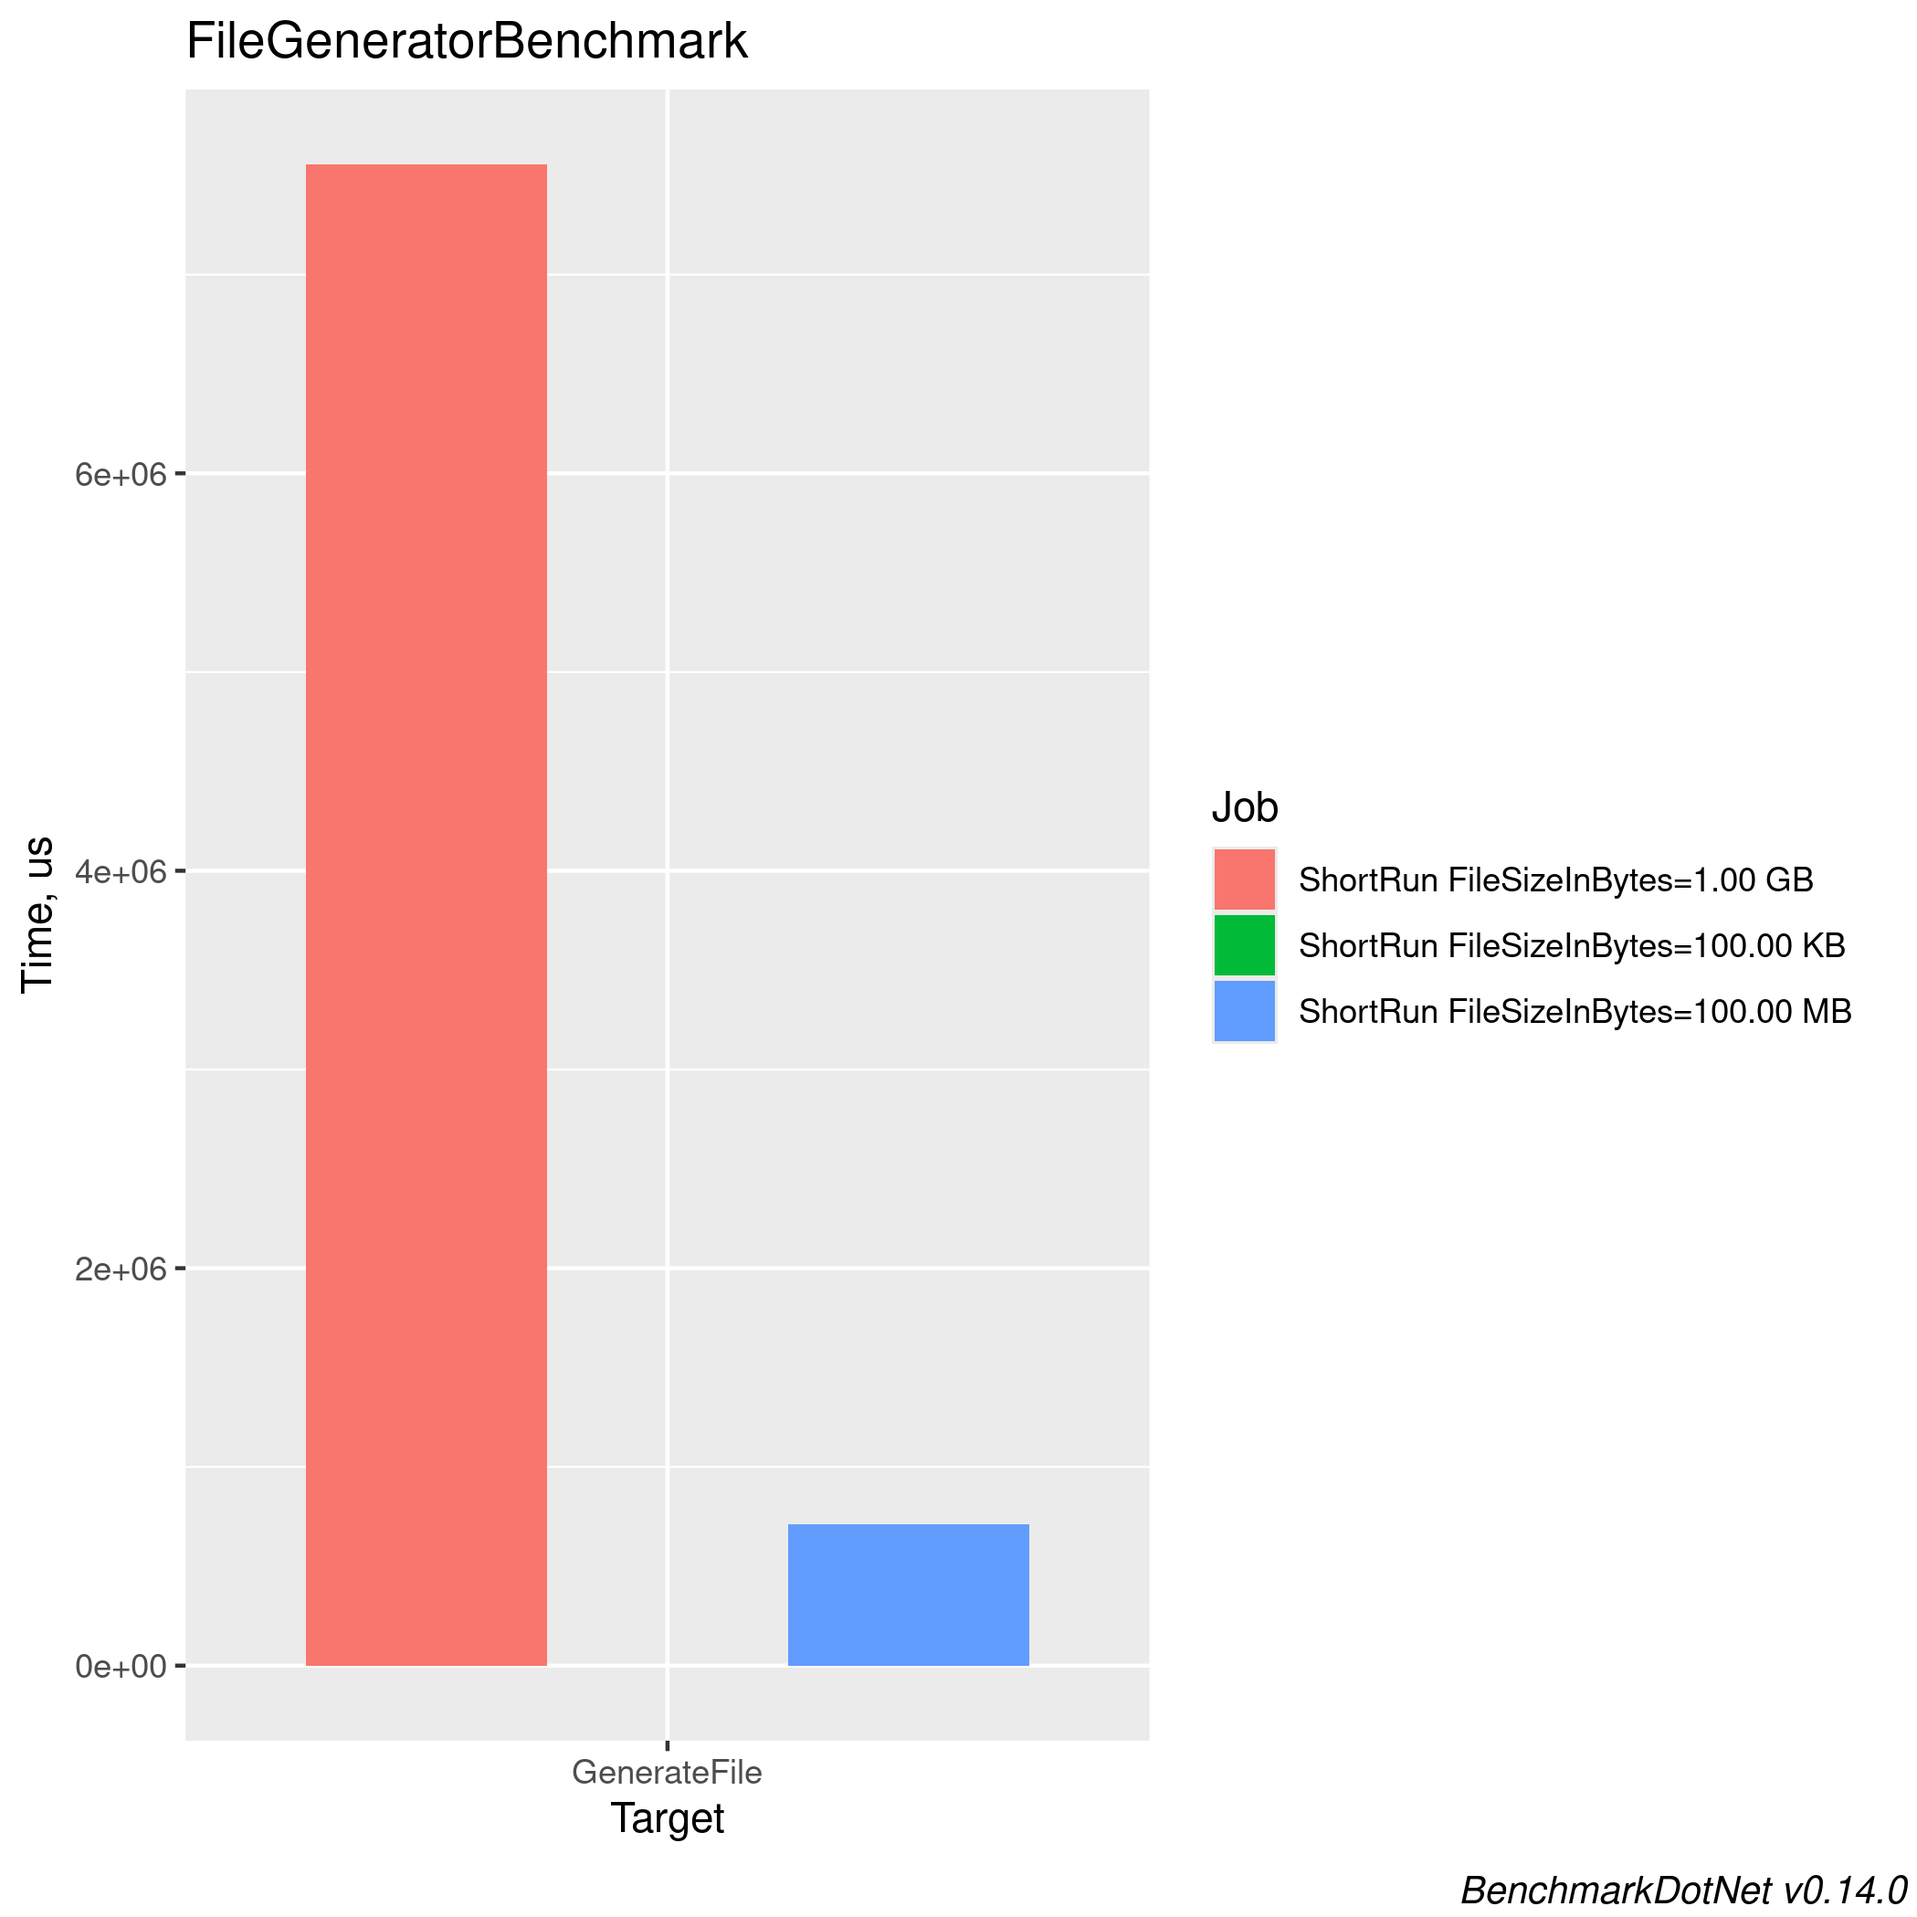
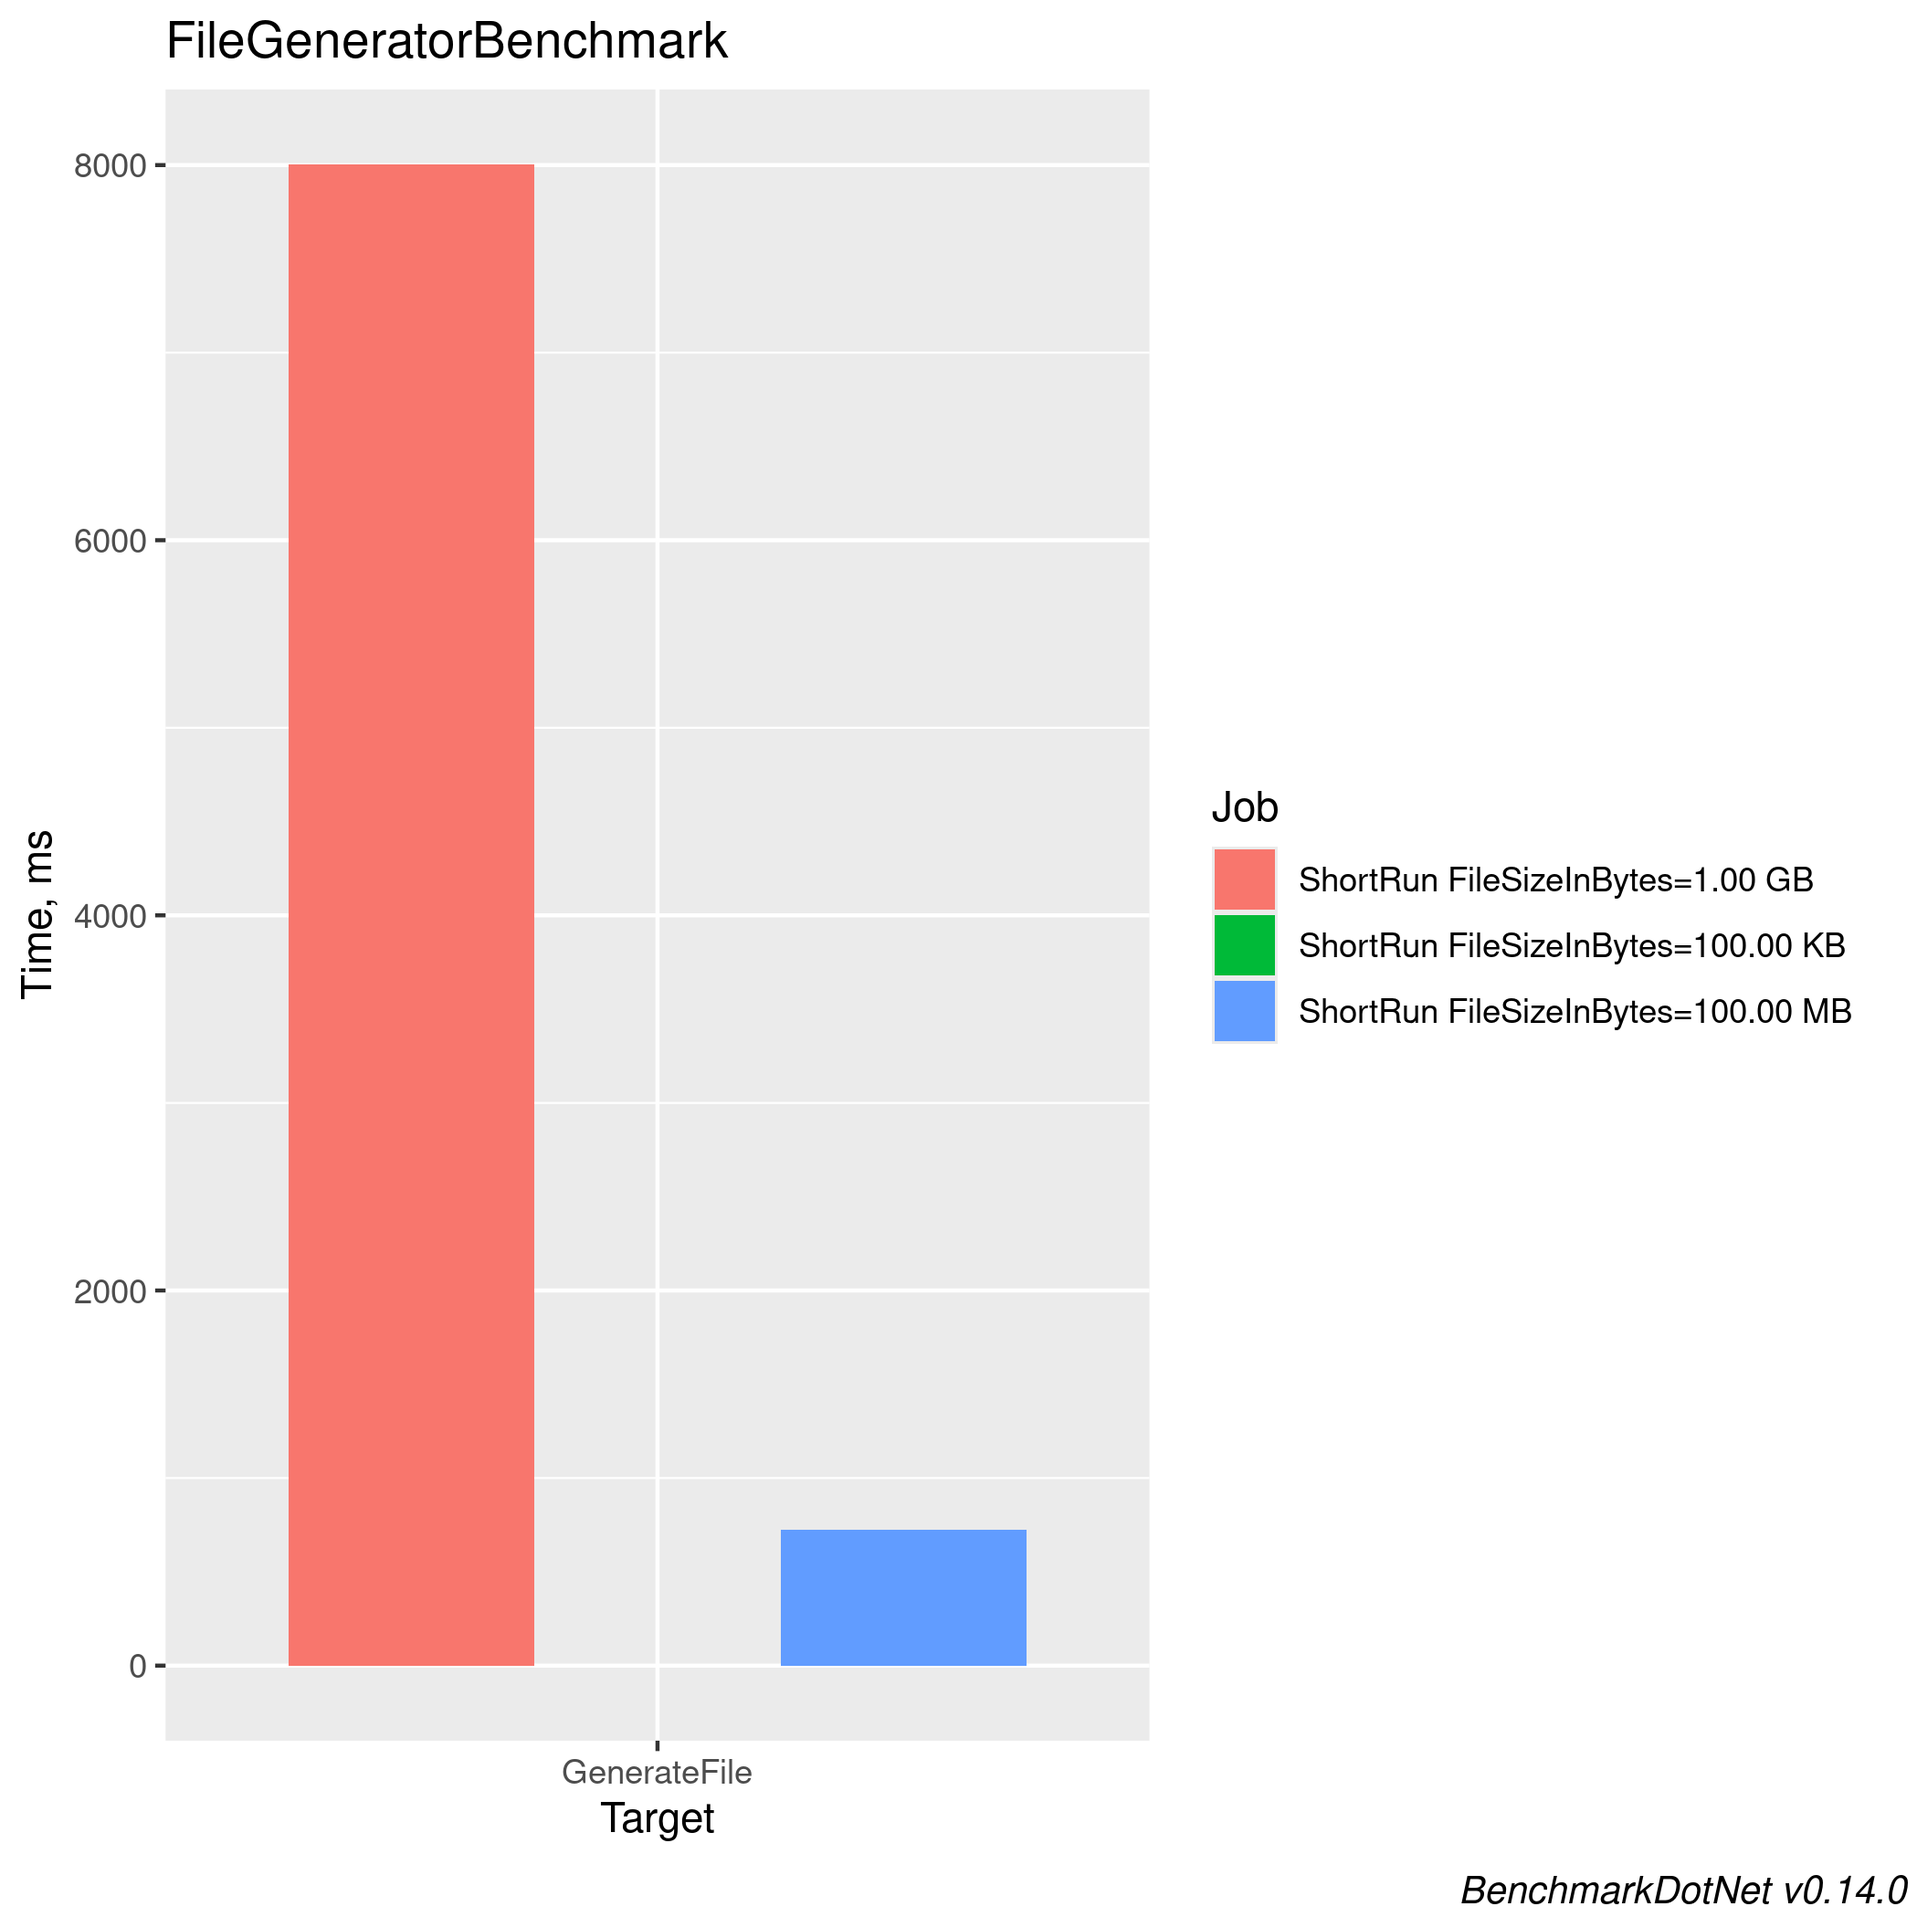
Update benchmark results in README

diff --git a/README.md b/README.md
@@ -5,7 +5,7 @@
 
 <!-- BENCHMARK RESULTS START -->
 
-*Last updated on Sat Sep 28 08:50:45 UTC 2024 UTC*
+*Last updated on Sat Sep 28 09:05:25 UTC 2024 UTC*
 
 ```
 
@@ -19,11 +19,11 @@ Job=ShortRun  Server=True  IterationCount=3
 LaunchCount=1  WarmupCount=3  
 
 ```
-| Method       | FileSizeInBytes | Mean         | Error        | StdDev      | Min           | Max          | Q1            | Q3           | Median       | Gen0       | Gen1    | Gen2    | Allocated    |
-|------------- |---------------- |-------------:|-------------:|------------:|--------------:|-------------:|--------------:|-------------:|-------------:|-----------:|--------:|--------:|-------------:|
-| **GenerateFile** | **1.00 GB**         | **7,555.746 ms** | **7,277.375 ms** | **398.8975 ms** | **7,273.1457 ms** | **8,012.041 ms** | **7,327.5979 ms** | **7,697.046 ms** | **7,382.050 ms** | **19000.0000** |       **-** |       **-** |   **6131489 KB** |
-| **GenerateFile** | **100.00 KB**       |     **1.029 ms** |     **1.480 ms** |   **0.0811 ms** |     **0.9591 ms** |     **1.118 ms** |     **0.9842 ms** |     **1.064 ms** |     **1.009 ms** |    **64.4531** | **64.4531** | **64.4531** |    **909.83 KB** |
-| **GenerateFile** | **100.00 MB**       |   **711.084 ms** |   **217.278 ms** |  **11.9098 ms** |   **701.0336 ms** |   **724.239 ms** |   **704.5073 ms** |   **716.110 ms** |   **707.981 ms** |  **1000.0000** |       **-** |       **-** | **599064.73 KB** |
+| Method       | FileSizeInBytes | Mean     | Error    | StdDev   | Min      | Max      | Q1       | Q3       | Median   | Gen0       | Gen1    | Gen2    | Allocated  |
+|------------- |---------------- |---------:|---------:|---------:|---------:|---------:|---------:|---------:|---------:|-----------:|--------:|--------:|-----------:|
+| GenerateFile | 1.00 GB         | 8.0048 s | 9.3275 s | 0.5113 s | 7.4279 s | 8.4020 s | 7.8062 s | 8.2932 s | 8.1844 s | 19000.0000 |       - |       - | 5987.67 MB |
+| GenerateFile | 100.00 KB       | 0.0012 s | 0.0017 s | 0.0001 s | 0.0011 s | 0.0013 s | 0.0011 s | 0.0012 s | 0.0012 s |    64.4531 | 64.4531 | 64.4531 |    0.89 MB |
+| GenerateFile | 100.00 MB       | 0.7263 s | 0.1731 s | 0.0095 s | 0.7192 s | 0.7371 s | 0.7209 s | 0.7299 s | 0.7227 s |  1000.0000 |       - |       - |  585.03 MB |
 
 ![Benchmark Barplot](docs/FileGeneratorBenchmark-barplot.png)
 

diff --git a/docs/FileGeneratorBenchmark-report-github.md b/docs/FileGeneratorBenchmark-report-github.md
@@ -10,8 +10,8 @@ Job=ShortRun  Server=True  IterationCount=3
 LaunchCount=1  WarmupCount=3  
 
 ```
-| Method       | FileSizeInBytes | Mean         | Error        | StdDev      | Min           | Max          | Q1            | Q3           | Median       | Gen0       | Gen1    | Gen2    | Allocated    |
-|------------- |---------------- |-------------:|-------------:|------------:|--------------:|-------------:|--------------:|-------------:|-------------:|-----------:|--------:|--------:|-------------:|
-| **GenerateFile** | **1.00 GB**         | **7,555.746 ms** | **7,277.375 ms** | **398.8975 ms** | **7,273.1457 ms** | **8,012.041 ms** | **7,327.5979 ms** | **7,697.046 ms** | **7,382.050 ms** | **19000.0000** |       **-** |       **-** |   **6131489 KB** |
-| **GenerateFile** | **100.00 KB**       |     **1.029 ms** |     **1.480 ms** |   **0.0811 ms** |     **0.9591 ms** |     **1.118 ms** |     **0.9842 ms** |     **1.064 ms** |     **1.009 ms** |    **64.4531** | **64.4531** | **64.4531** |    **909.83 KB** |
-| **GenerateFile** | **100.00 MB**       |   **711.084 ms** |   **217.278 ms** |  **11.9098 ms** |   **701.0336 ms** |   **724.239 ms** |   **704.5073 ms** |   **716.110 ms** |   **707.981 ms** |  **1000.0000** |       **-** |       **-** | **599064.73 KB** |
+| Method       | FileSizeInBytes | Mean     | Error    | StdDev   | Min      | Max      | Q1       | Q3       | Median   | Gen0       | Gen1    | Gen2    | Allocated  |
+|------------- |---------------- |---------:|---------:|---------:|---------:|---------:|---------:|---------:|---------:|-----------:|--------:|--------:|-----------:|
+| GenerateFile | 1.00 GB         | 8.0048 s | 9.3275 s | 0.5113 s | 7.4279 s | 8.4020 s | 7.8062 s | 8.2932 s | 8.1844 s | 19000.0000 |       - |       - | 5987.67 MB |
+| GenerateFile | 100.00 KB       | 0.0012 s | 0.0017 s | 0.0001 s | 0.0011 s | 0.0013 s | 0.0011 s | 0.0012 s | 0.0012 s |    64.4531 | 64.4531 | 64.4531 |    0.89 MB |
+| GenerateFile | 100.00 MB       | 0.7263 s | 0.1731 s | 0.0095 s | 0.7192 s | 0.7371 s | 0.7209 s | 0.7299 s | 0.7227 s |  1000.0000 |       - |       - |  585.03 MB |
